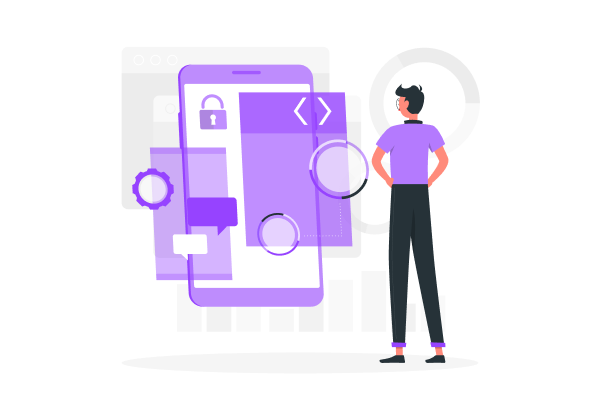
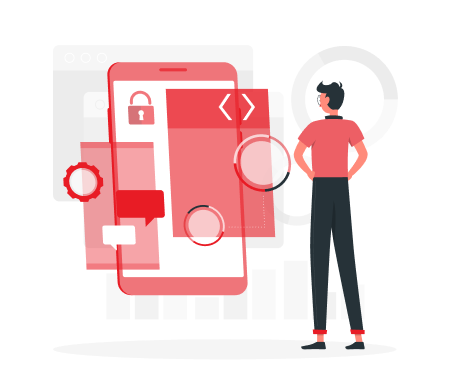
light redish theme

Changed region(s): [[0.1244, 0.1558, 0.84, 0.9351]]

diff --git a/components/FeaturesIcon.vue b/components/FeaturesIcon.vue
@@ -10,11 +10,11 @@
     >
       <path
         d="M5.625 16.875H11.25V73.125H5.625V16.875ZM16.875 11.25H22.5V78.75H16.875V11.25ZM39.375 61.875H73.125V67.5H39.375V61.875ZM39.375 45H73.125V50.625H39.375V45Z"
-        fill="#481CE8"
+        fill="#E81C25"
       />
       <path
         d="M83.5313 26.1562L63.8438 6.46875C63.2813 5.90625 62.7188 5.625 61.875 5.625H33.75C30.6562 5.625 28.125 8.15625 28.125 11.25V78.75C28.125 81.8438 30.6562 84.375 33.75 84.375H78.75C81.8438 84.375 84.375 81.8438 84.375 78.75V28.125C84.375 27.2812 84.0938 26.7188 83.5313 26.1562ZM61.875 12.375L77.625 28.125H61.875V12.375ZM78.75 78.75H33.75V11.25H56.25V28.125C56.25 31.2188 58.7812 33.75 61.875 33.75H78.75V78.75Z"
-        fill="#481CE8"
+        fill="#E81C25"
       />
     </svg>
     <svg
@@ -27,19 +27,19 @@
     >
       <path
         d="M26.7188 45C33.7086 45 39.375 39.3336 39.375 32.3438C39.375 25.3539 33.7086 19.6875 26.7188 19.6875C19.7289 19.6875 14.0625 25.3539 14.0625 32.3438C14.0625 39.3336 19.7289 45 26.7188 45Z"
-        fill="#481CE8"
+        fill="#E81C25"
       />
       <path
         d="M41.1328 52.0312C36.1828 49.5176 30.7195 48.5156 26.7188 48.5156C18.8824 48.5156 2.8125 53.3215 2.8125 62.9297V70.3125H29.1797V67.4877C29.1797 64.1479 30.5859 60.7992 33.0469 58.0078C35.0104 55.7789 37.7596 53.71 41.1328 52.0312Z"
-        fill="#481CE8"
+        fill="#E81C25"
       />
       <path
         d="M59.7656 50.625C50.6127 50.625 32.3438 56.2781 32.3438 67.5V75.9375H87.1875V67.5C87.1875 56.2781 68.9186 50.625 59.7656 50.625Z"
-        fill="#481CE8"
+        fill="#E81C25"
       />
       <path
         d="M59.7656 45C68.3088 45 75.2344 38.0744 75.2344 29.5312C75.2344 20.9881 68.3088 14.0625 59.7656 14.0625C51.2225 14.0625 44.2969 20.9881 44.2969 29.5312C44.2969 38.0744 51.2225 45 59.7656 45Z"
-        fill="#481CE8"
+        fill="#E81C25"
       />
     </svg>
     <svg
@@ -52,7 +52,7 @@
     >
       <path
         d="M8.77464 3.6046L3.59998 8.77897L14.9842 24.7212C15.4635 25.3926 16.0963 25.9396 16.8299 26.3168C17.5635 26.6939 18.3767 26.8902 19.2016 26.8893H19.5638C20.2442 26.8888 20.918 27.0224 21.5466 27.2825C22.1753 27.5427 22.7465 27.9242 23.2275 28.4054L37.0697 42.2468L23.5276 55.9796C21.2114 55.2979 18.7682 55.1652 16.3917 55.5921C14.0153 56.019 11.771 56.9938 9.83699 58.4391C7.90294 59.8844 6.33231 61.7605 5.24968 63.9185C4.16705 66.0765 3.60221 68.4571 3.59998 70.8715C3.60308 73.0961 4.08434 75.2942 5.01117 77.3166C5.93799 79.339 7.28871 81.1386 8.97183 82.5935C10.6549 84.0483 12.6311 85.1244 14.7665 85.7489C16.9018 86.3733 19.1464 86.5315 21.3483 86.2128C23.5501 85.894 25.6577 85.1058 27.5283 83.9014C29.3988 82.697 30.9887 81.1046 32.19 79.2322C33.3914 77.3598 34.1763 75.251 34.4914 73.0488C34.8066 70.8465 34.6447 68.6023 34.0167 66.4681L47.7502 52.9267L52.7593 57.9355L51.181 62.6649C50.8777 63.5765 50.8343 64.5545 51.0554 65.4894C51.2766 66.4243 51.7537 67.2792 52.4333 67.9583L69.3544 84.8785C69.8339 85.3607 70.4039 85.7433 71.0318 86.0044C71.6597 86.2655 72.3329 86.4 73.0129 86.4C73.6929 86.4 74.3662 86.2655 74.9941 86.0044C75.6219 85.7433 76.192 85.3607 76.6714 84.8785L84.8784 76.672C85.3606 76.1925 85.7433 75.6225 86.0044 74.9947C86.2655 74.3669 86.4 73.6936 86.4 73.0137C86.4 72.3337 86.2655 71.6605 86.0044 71.0326C85.7433 70.4048 85.3606 69.8348 84.8784 69.3554L67.9573 52.4352C67.2781 51.7556 66.4232 51.2786 65.4883 51.0574C64.5533 50.8362 63.5752 50.8797 62.6636 51.183L57.934 52.7612L52.9663 47.7938L66.8344 34.1179C69.135 34.732 71.5459 34.8095 73.8812 34.3446C76.2165 33.8797 78.4138 32.8846 80.3038 31.4363C82.1937 29.9879 83.7257 28.1249 84.7818 25.9908C85.8378 23.8568 86.3896 21.5087 86.3946 19.1277C86.3946 17.7358 86.2135 16.3853 85.8668 15.1072L74.793 26.1856L65.696 24.3021L63.8124 15.2107L74.8913 4.13238C72.2559 3.42381 69.4801 3.42249 66.844 4.12855C64.2078 4.83461 61.8044 6.2231 59.8759 8.15406C57.9475 10.085 56.5622 12.4902 55.8597 15.1272C55.1572 17.7642 55.1622 20.5397 55.8744 23.1741L42.2133 37.0311L28.4021 23.231C27.4316 22.2608 26.8863 20.9449 26.886 19.5727V19.2053C26.886 18.3814 26.6893 17.5693 26.3122 16.8367C25.9351 16.1041 25.3885 15.4721 24.7178 14.9934L8.77464 3.6046ZM58.6895 58.691C58.9298 58.4501 59.2153 58.2589 59.5297 58.1285C59.844 57.9981 60.181 57.9309 60.5213 57.9309C60.8616 57.9309 61.1986 57.9981 61.5129 58.1285C61.8273 58.2589 62.1128 58.4501 62.3531 58.691L77.4321 73.7743C77.9034 74.2623 78.1642 74.9158 78.1583 75.5941C78.1524 76.2725 77.8803 76.9214 77.4006 77.4011C76.9209 77.8808 76.2719 78.1529 75.5935 78.1587C74.9152 78.1646 74.2616 77.9039 73.7736 77.4326L58.6895 62.3545C58.4485 62.1141 58.2573 61.8286 58.1269 61.5143C57.9965 61.2 57.9293 60.863 57.9293 60.5227C57.9293 60.1824 57.9965 59.8455 58.1269 59.5311C58.2573 59.2168 58.4485 58.9313 58.6895 58.691ZM19.124 60.5227L21.5612 61.7749L24.2986 61.9095L25.7838 64.2121L28.0865 65.6971L28.221 68.4344L29.4733 70.8715L28.221 73.3086L28.0865 76.0459L25.7838 77.5309L24.2986 79.8335L21.5612 79.968L19.124 81.2202L16.6867 79.968L13.9493 79.8335L12.4642 77.5309L10.1615 76.0459L10.0269 73.3086L8.77464 70.8715L10.0269 68.4344L10.1615 65.6971L12.4642 64.2121L13.9493 61.9095L16.6867 61.7749L19.124 60.5227Z"
-        fill="#481CE8"
+        fill="#E81C25"
       />
     </svg>
     <svg
@@ -65,7 +65,7 @@
     >
       <path
         d="M48.4688 41.4375L32.5312 25.5L37.875 20.25L48.4688 30.8438L69.75 9.65625L75 14.9062L48.4688 41.4375ZM3.75 82.5V41.25H18.75V82.5H3.75ZM52.5 82.5L26.25 75.0938V41.25H33.6563L63.75 52.5V60H48.75L42.1875 57.4688L40.875 60.9375L48.75 63.75H82.5V71.25L52.5 82.5Z"
-        fill="#481CE8"
+        fill="#E81C25"
       />
     </svg>
   </span>

diff --git a/assets/css/tailwind.css b/assets/css/tailwind.css
@@ -18,7 +18,8 @@ body {
     position: absolute;
     width: 1131px;
     height: 1131px;
-    background: radial-gradient(45.41% 45.41% at 50% 50%, #b176ff 0%, rgba(255, 255, 255, 0.192) 100%);
+    background: radial-gradient(45.41% 45.41% at 50% 50%, #ffbbbe 0%, rgb(255 255 255 / 50%) 100%);
+    /* background: radial-gradient(45.41% 45.41% at 50% 50%, #E81C25 0%, rgba(255, 255, 255, 0) 100%); */
     opacity: 0.2;
     z-index: -1;
 
@@ -58,15 +59,15 @@ body {
 }
 
 .glowy-container {
-    @apply rounded-2xl border border-[#E0C8FF] shadow-[#E0C8FF3F_0px_0px_20px] bg-cardColor;
+    @apply rounded-2xl border border-stroke shadow-[#fbe5e73F_0px_0px_20px] bg-cardColor;
 }
 
 .btn-primary {
-    @apply bg-primary hover:bg-violet-600 border border-primary transition-all rounded-lg py-2 px-5 font-medium text-bgColor cursor-pointer;
+    @apply bg-primary hover:bg-red-700 border border-primary transition-all rounded-lg py-2 px-5 font-medium text-bgColor cursor-pointer;
 }
 
 .glowy-border {
-    @apply border-y border-[#E0C8FF] bg-cardColor;
+    @apply border-y border-stroke bg-cardColor;
 }
 
 /* ANIMATION */

diff --git a/tailwind.config.ts b/tailwind.config.ts
@@ -19,6 +19,17 @@ const purpleTheme = {
   footerColor: "#0F1314",
 };
 
+const lightRedTheme = {
+  bgColor: "#FFFFFF",
+  bgSecondaryColor: "#FCFAFF",
+  headingColor: "#070C0E",
+  paraColor: "#AAAAAA",
+  primary: "#E81C25",
+  stroke: "#640E12",
+  cardColor: "#0E0B0B",
+  footerColor: "#0F1314",
+};
+
 export default {
   theme: {
     screens: {
@@ -37,11 +48,20 @@ export default {
         bgColor: "#FFFFFF",
         headingColor: "#181818",
         paraColor: "#333333",
-        primary: "#9643FF",
-        stroke: "#E0C8FF",
-        cardColor: "#FCFAFF",
-        footerColor: "#FCFAFF",
+        primary: "#E81C25",
+        stroke: "#ffc5cb",
+        cardColor: "#fffbfb",
+        footerColor: "#fffbfb",
       },
+      // {
+      //   bgColor: "#FFFFFF",
+      //   headingColor: "#181818",
+      //   paraColor: "#333333",
+      //   primary: "#9643FF",
+      //   stroke: "#E0C8FF",
+      //   cardColor: "#FCFAFF",
+      //   footerColor: "#FCFAFF",
+      // },
     },
   },
   content: [

diff --git a/pages/contact.vue b/pages/contact.vue
@@ -118,20 +118,20 @@ async function submitForm() {
       title: "Thanks for reaching out to us",
       text: "We will get back to you soon.",
       icon: "success",
-      iconColor: "#481CE8",
+      iconColor: "#E81C25",
       color: "#ffffff",
       background: "#070C0E",
-      confirmButtonColor: "#481CE8",
+      confirmButtonColor: "#E81C25",
     });
   } else {
     Swal.fire({
       title: "Something went wrong",
       text: "Please use the live chat option to contact us meanwhile we'll fix it.",
       icon: "error",
-      iconColor: "#481CE8",
+      iconColor: "#E81C25",
       color: "#ffffff",
       background: "#070C0E",
-      confirmButtonColor: "#481CE8",
+      confirmButtonColor: "#E81C25",
     });
   }
 }

diff --git a/components/Footer.vue b/components/Footer.vue
@@ -3,7 +3,7 @@
     <!-- <div class="bottom-0 left-0 radial" /> -->
     <div class="mx-auto bg-footerColor z-10 w-full mt-20 pt-20 min-h-[400px] px-8 pb-2">
       <div class="max-w-7xl mx-auto flex flex-wrap items-center justify-between gap-8">
-        <img src="@/assets/images/logo-large.png" class="mr-3" alt="vanops" />
+        <img src="@/assets/images/logo-large-red.png" class="mr-3" alt="vanops" />
         <div class="flex flex-wrap gap-y-5 gap-x-28">
           <div>
             <h5 class="title-small mb-2">Core Services</h5>

diff --git a/components/Header.vue b/components/Header.vue
@@ -5,7 +5,7 @@
         class="flex flex-wrap items-center justify-between mx-auto px-6 py-4 glowy-container"
       >
         <NuxtLink to="/" class="flex items-center">
-          <img src="@/assets/images/logo.png" :alt="siteName + ' Logo'" />
+          <img src="@/assets/images/logo-red.png" :alt="siteName + ' Logo'" />
         </NuxtLink>
         <div class="flex md:order-2">
           <a target="_blank" class="hidden md:block" href="https://www.linkedin.com/company/vanguard-ops/">
